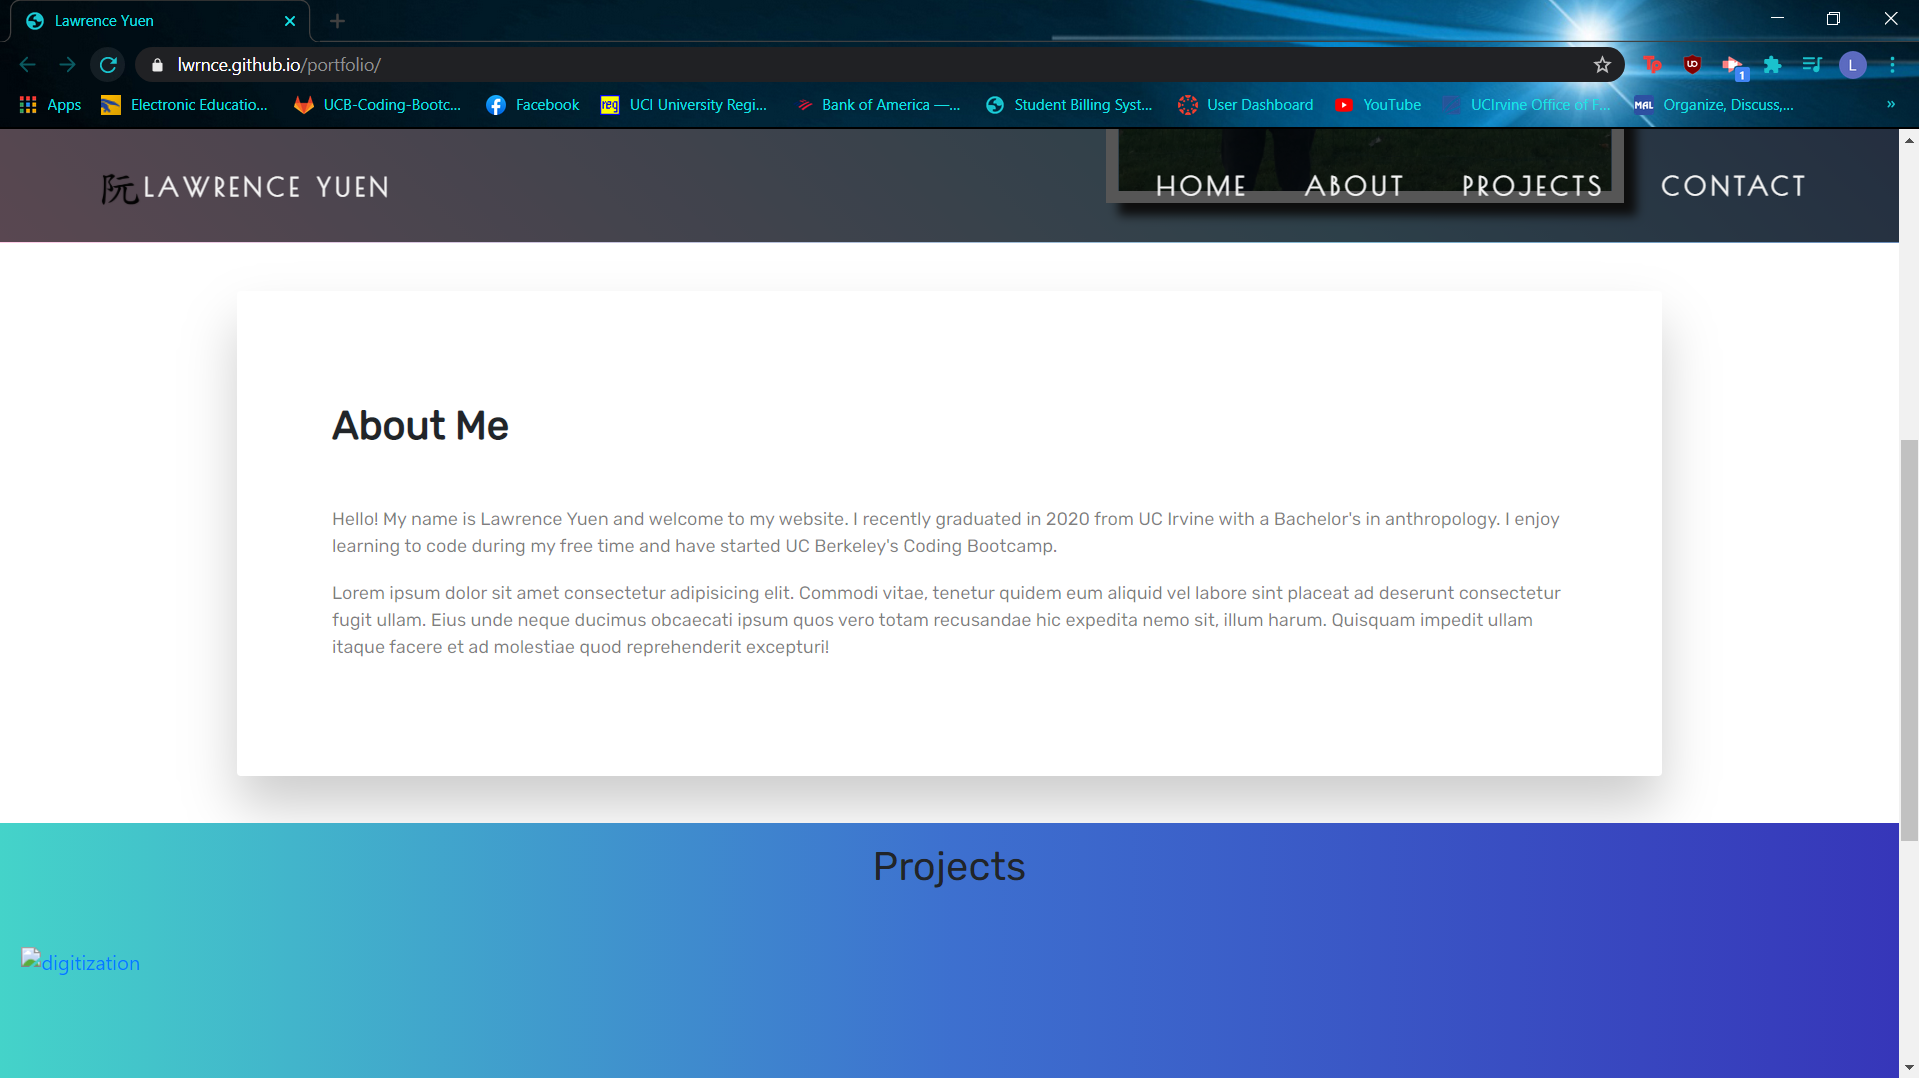
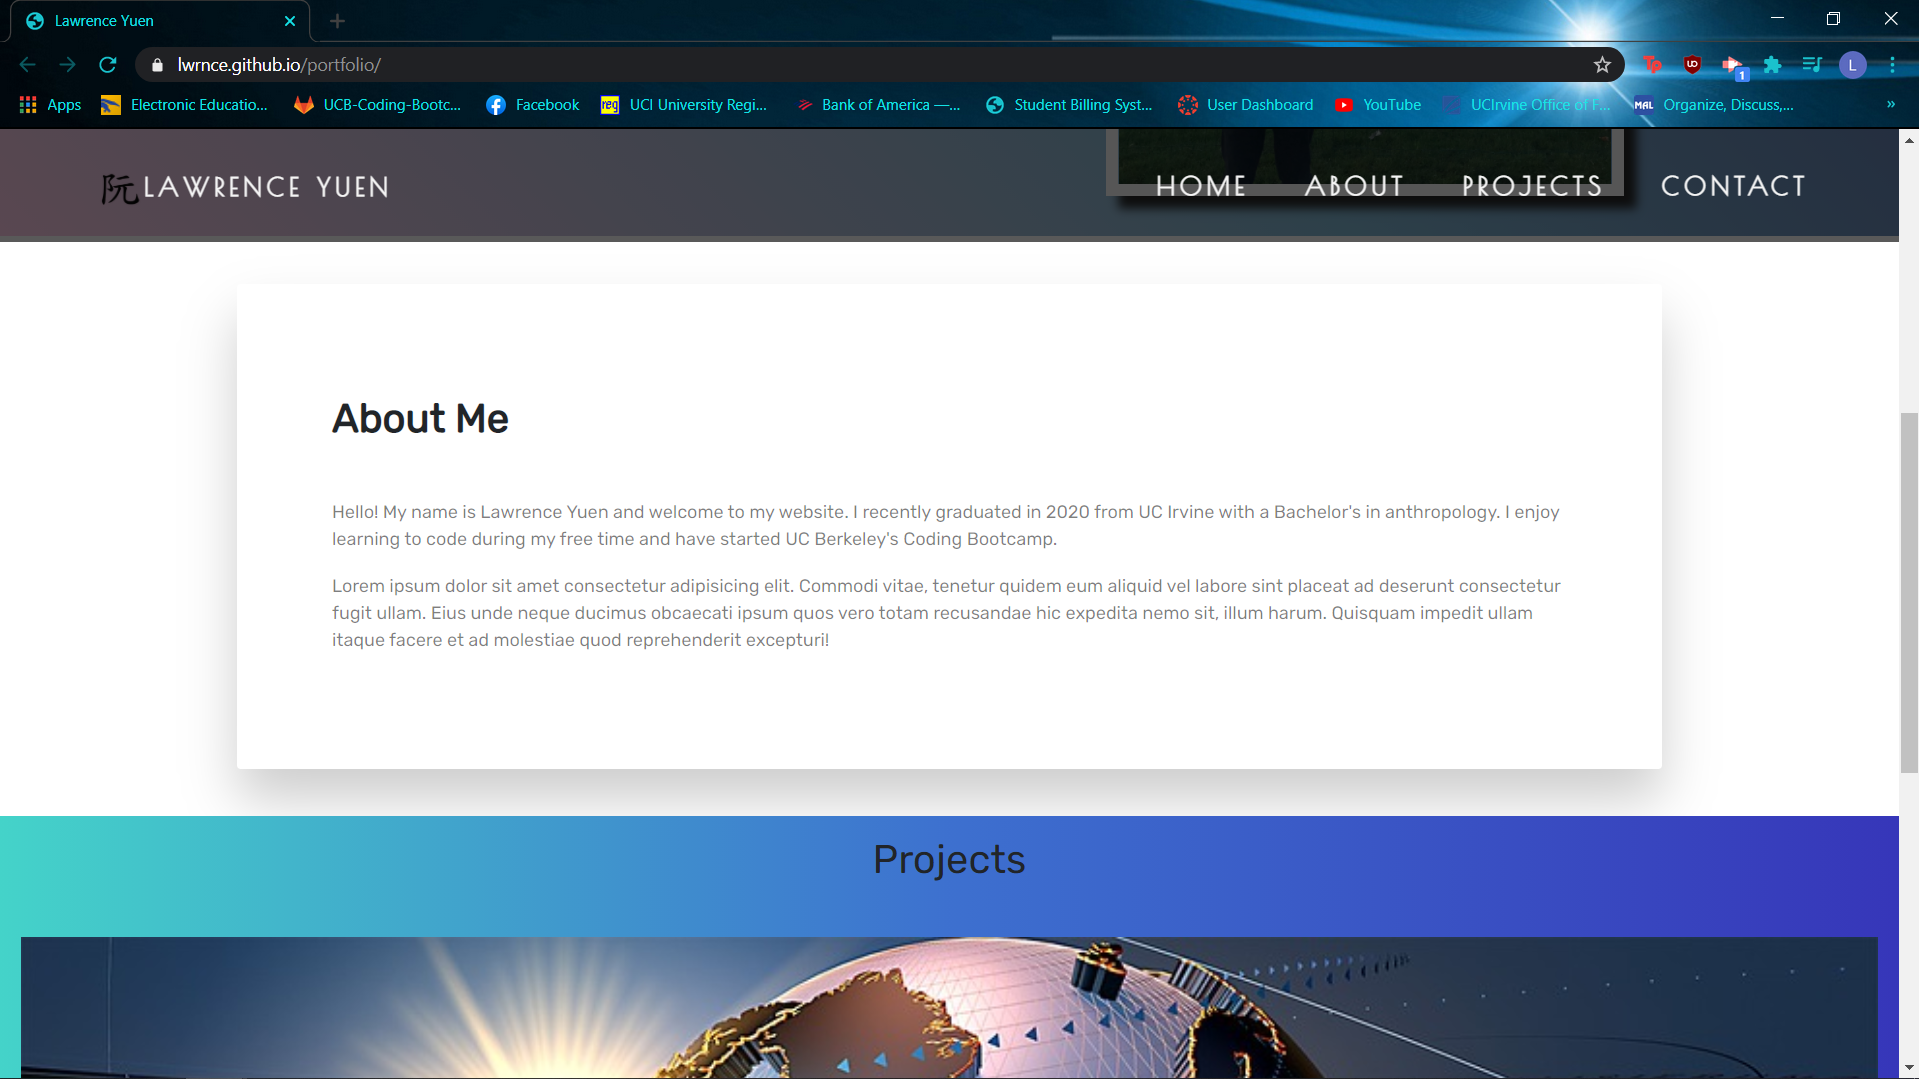
replace placeholder with project link

diff --git a/index.html b/index.html
@@ -117,12 +117,12 @@
                 <div class="row">
                     <div class="col-md-12">
                         <div class="project-img onhover">
-                            <a href="#" target="_blank">
-                                <img src="./assets/images/digitization.jpg" alt="digitization" width="100%">
+                            <a href="https://devinpask.github.io/Fitness-App/" target="_blank">
+                                <img src="./assets/images/fitnessapp.png" alt="Fitness-App" width="100%">
                             </a>
                             <div class="text-block">
-                                <h4>Digitization</h4>
-                                <p>Placeholder</p>
+                                <h4>Fitness-App</h4>
+                                <p>HTML/CSS/JS</p>
                             </div>
                         </div>
                     </div>
